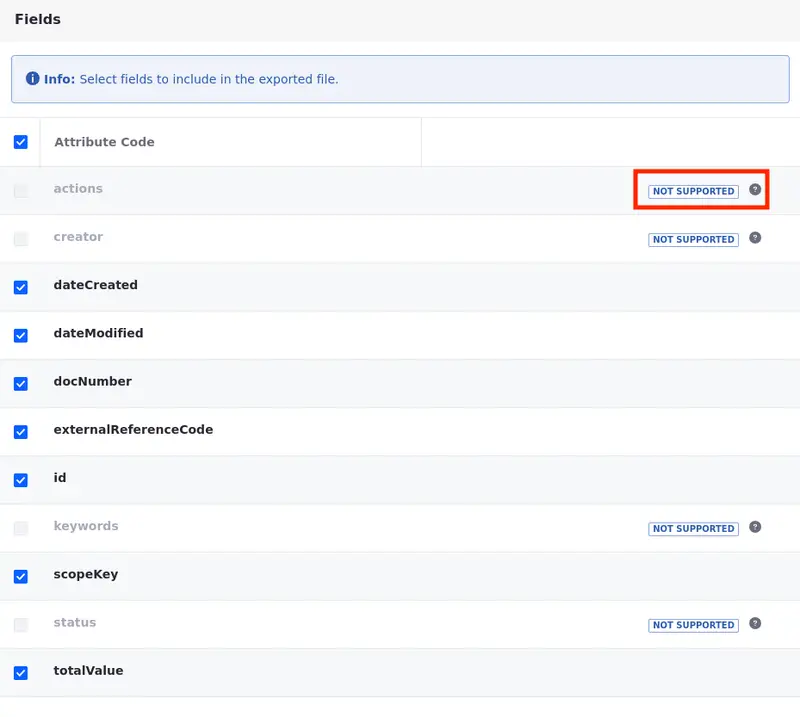
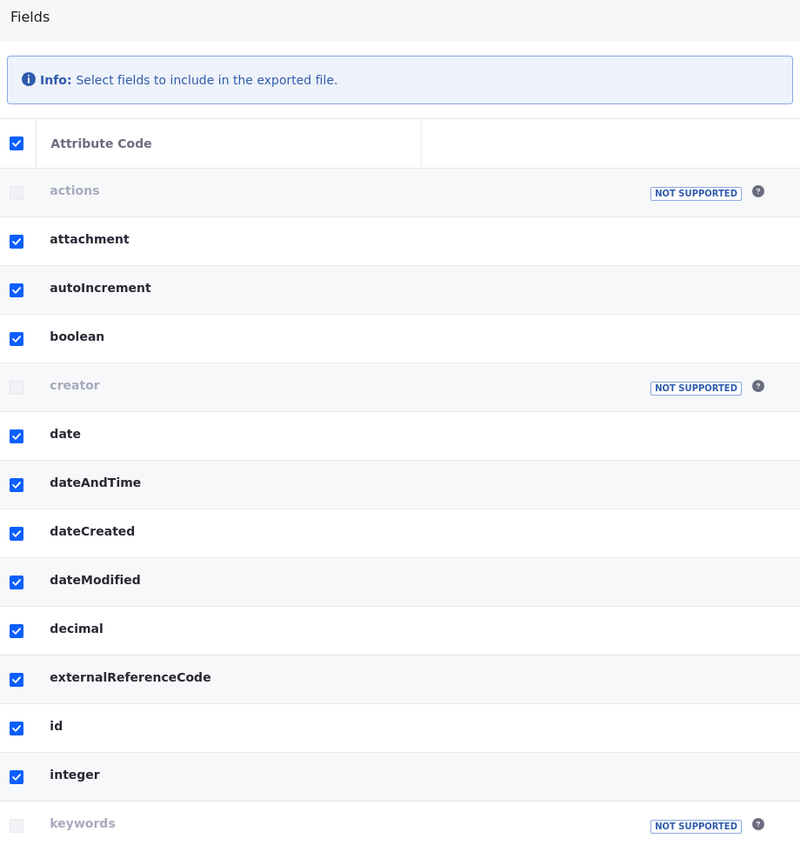
LRDOCS-12544 data-migration-center.md updated supported fields for CSV

diff --git a/docs/dxp/latest/en/headless-delivery/consuming-apis/data-migration-center.md b/docs/dxp/latest/en/headless-delivery/consuming-apis/data-migration-center.md
@@ -130,7 +130,7 @@ Here are the main differences:
    When using the CSV format, see which fields are supported and can be selected for export in the Fields list.
 
    !!! important
-       CSV files currently support these field types: Date, Date and Time, Decimal, Integer, Long Integer, Long Text, Picklist, Precision Decimal, Rich Text, and Text. Object Definitions are not supported.
+       CSV files currently support these field types: Aggregation, Attachment, Boolean, Date, Date and Time, Decimal, Encrypted, Formula, Integer, Long Integer, Long Text, Multiselect Picklist, Picklist, Precision Decimal, Rich Text, and Text. Object Definitions are not supported.
 
    ![Export only supported fields.](./data-migration-center/images/07.png)
 
